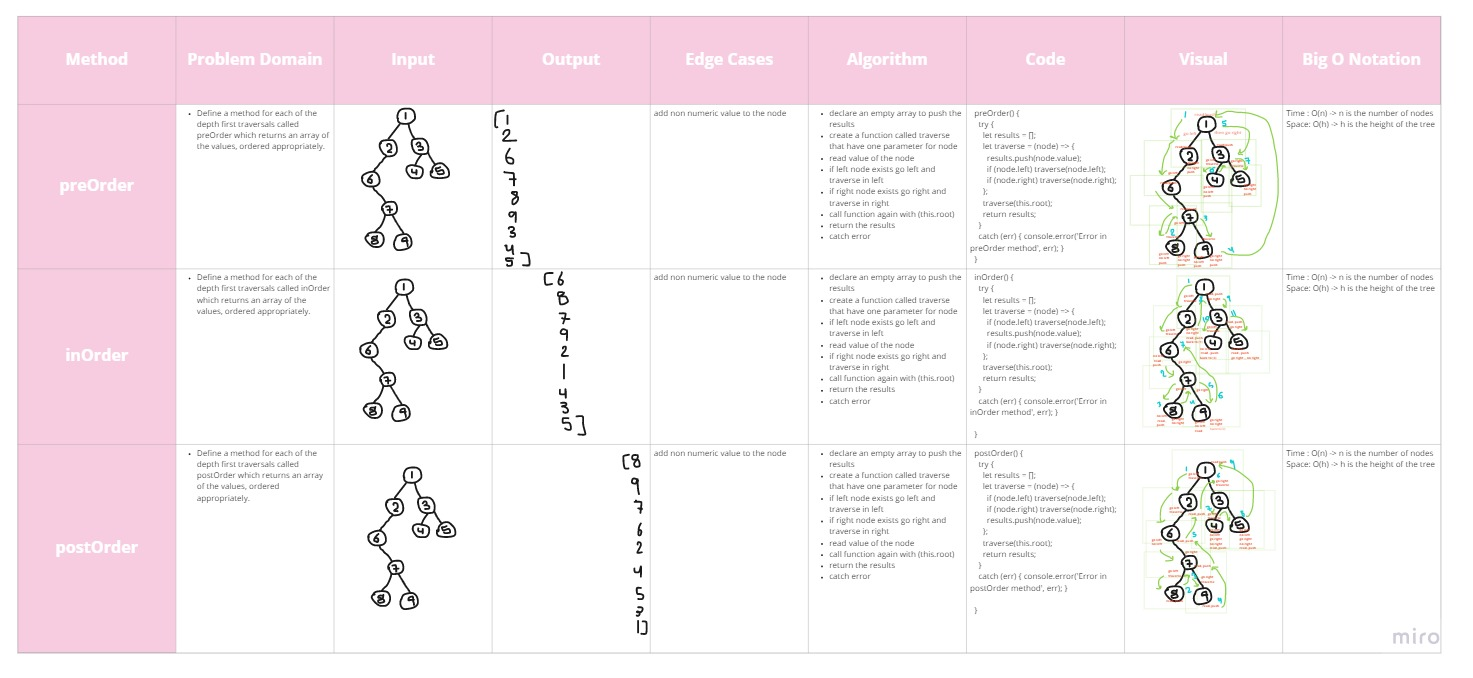
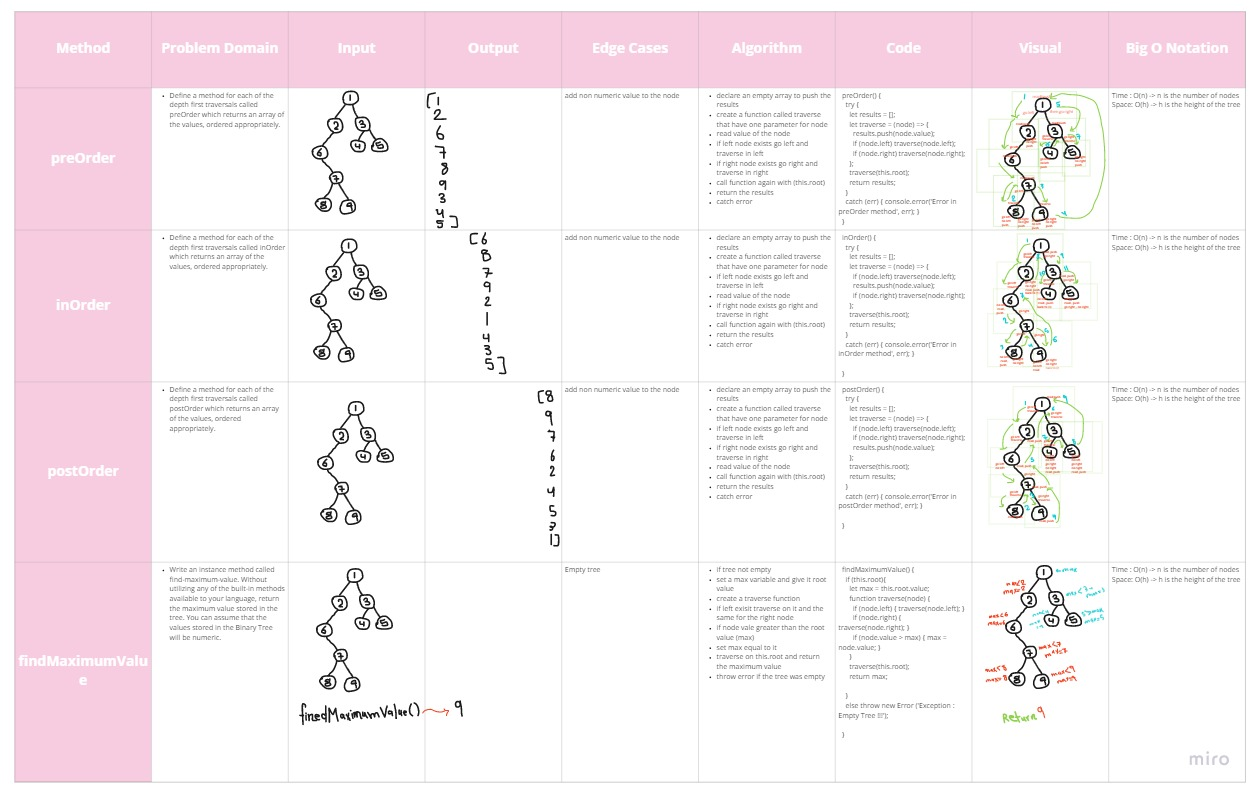
maximum value

diff --git a/Data-Structures/tree/tree.js b/Data-Structures/tree/tree.js
@@ -1,5 +1,7 @@
 'use strict';
 
+var treeify = require('treeify');
+
 class Node {
   constructor(value, left = null, right = null) {
     this.value = value;
@@ -58,8 +60,47 @@ class BinaryTree {
     catch (err) { console.error('Error in postOrder method', err); }
 
   }
-}
 
+  findMaximumValue() {
+    if (this.root){
+      let max = this.root.value;
+      function traverse(node) {
+        if (node.left) { traverse(node.left); }
+        if (node.right) { traverse(node.right); }
+        if (node.value > max) { max = node.value; }
+      }
+      traverse(this.root);
+      return max;
+
+    }
+    else throw new Error ('Exception : Empty Tree !!!');
+
+  }
+}
+// let tree = null;
+// let one = new Node(1);
+// let two = new Node(2);
+// let three = new Node(3);
+// let four = new Node(4);
+// let five = new Node(5);
+// let six = new Node(6);
+// let seven = new Node(7);
+// let eight = new Node(10);
+// let nine = new Node(9);
+
+// one.left = two;
+// one.right = three;
+// two.left = six;
+// six.right = seven;
+// seven.left = eight;
+// seven.right = nine;
+// three.left = four;
+// three.right = five;
+
+// tree = new BinaryTree(one);
+// console.log(treeify.asTree(tree, true));
+
+// console.log(tree.findMaximumValue());
 
 class BinarySearchTree {
   constructor(root = null) {

diff --git a/Data-Structures/tree/tree.test.js b/Data-Structures/tree/tree.test.js
@@ -59,6 +59,11 @@ describe('Binary Tree TEST', () => {
     let postOrderResult = tree.postOrder();
     expect(postOrderResult).toEqual(expected);
   });
+
+
+  it('should successfully return maximum value of the tree', ()=>{
+    expect(tree.findMaximumValue()).toEqual(9);
+  });
 });
 
 describe('Binary Search Tree TEST', () => {
@@ -101,6 +106,11 @@ describe('Edge Cases And Expected Faller', () => {
     expect(()=>meTree.contains('String')).toThrow('The Value Should Be A Number');
   });
 
+  it('Should return an error when find max value of empty tree', ()=>{
+    const tree = new BinaryTree();
+    expect(() => tree.findMaximumValue()).toThrowError;
+    expect(() => tree.findMaximumValue()).toThrow('Exception : Empty Tree !!!');
+  });
 
 });
 

diff --git a/Data-Structures/tree/README.md b/Data-Structures/tree/README.md
@@ -56,6 +56,25 @@ Define a method for each of the depth first traversals called  postOrder which r
 
 
 ```
+**findMaximumValue()**
+
+Write an instance method called find-maximum-value. Without utilizing any of the built-in methods available to your language, return the maximum value stored in the tree. You can assume that the values stored in the Binary Tree will be numeric.
+
+```
+
+- if tree not empty
+- set a max variable and give it root value
+- create a traverse function
+- if left exisit traverse on it and the same for the right node
+- if node vale greater than the root value (max)
+- set max equal to it
+- traverse on this.root and return the maximum value
+- throw error if the tree was empty
+
+
+
+
+```
 
 ## Binary Search Tree : 
 
@@ -112,30 +131,33 @@ Define a method named contains that accepts a value, and returns a boolean indic
 ## [Actions](https://github.com/wafaankoush99/data-structures-and-algorithms/actions)
 
 ```
- PASS  Data-Structures/tree/tree.test.js (15.438 s)
+ PASS  Data-Structures/tree/tree.test.js
   Binary Tree TEST
     ✓ Can successfully instantiate an empty tree (1 ms)
     ✓ Can successfully instantiate a tree with a single root node
     ✓ Can successfully return a collection from a preorder traversal (1 ms)
-    ✓ Can successfully return a collection from an inorder traversal (2 ms)
-    ✓ Can successfully return a collection from a postorder traversal (1 ms)
+    ✓ Can successfully return a collection from an inorder traversal
+    ✓ Can successfully return a collection from a postorder traversal (106 ms)
+    ✓ should successfully return maximum value of the tree (1 ms)
   Binary Search Tree TEST
-    ✓ Can successfully add a left child and right child to a single root node (1 ms)
+    ✓ Can successfully add a left child and right child to a single root node (2 ms)
     ✓ Should returns a boolean indicating whether or not the value is in the tree at least once. (1 ms)
   Edge Cases And Expected Faller
-    ✓ Should through an error when add a non numerical value to add method (46 ms)
+    ✓ Should through an error when add a non numerical value to add method (9 ms)
     ✓ Should through an error when add a non numerical value to contains method (1 ms)
+    ✓ Should return an error when find max value of empty tree
 
-----------|---------|----------|---------|---------|---------------------
+----------|---------|----------|---------|---------|----------------------
 File      | % Stmts | % Branch | % Funcs | % Lines | Uncovered Line #s
-----------|---------|----------|---------|---------|---------------------
-All files |   79.41 |    68.42 |     100 |   77.42 |
- tree.js  |   79.41 |    68.42 |     100 |   77.42 | 27,42,58,85,105-121
-----------|---------|----------|---------|---------|---------------------
+----------|---------|----------|---------|---------|----------------------
+All files |    82.5 |    73.91 |     100 |   80.28 |
+ tree.js  |    82.5 |    73.91 |     100 |   80.28 | 29,44,60,126,146-162
+----------|---------|----------|---------|---------|----------------------
 Test Suites: 1 passed, 1 total
-Tests:       9 passed, 9 total
+Tests:       11 passed, 11 total
 Snapshots:   0 total
-Time:        38.251 s
+Time:        1.084 s
+Ran all test suites matching /tree.test.js/i.
 
 ```
 
